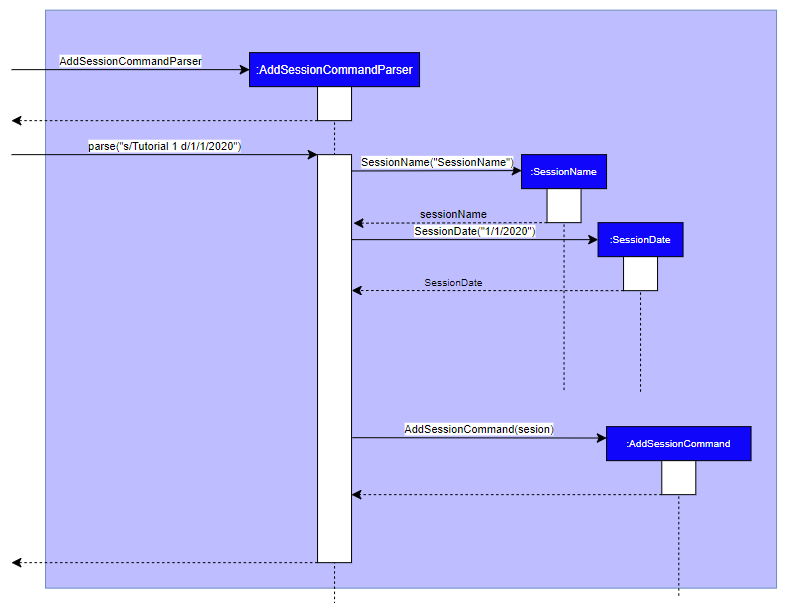
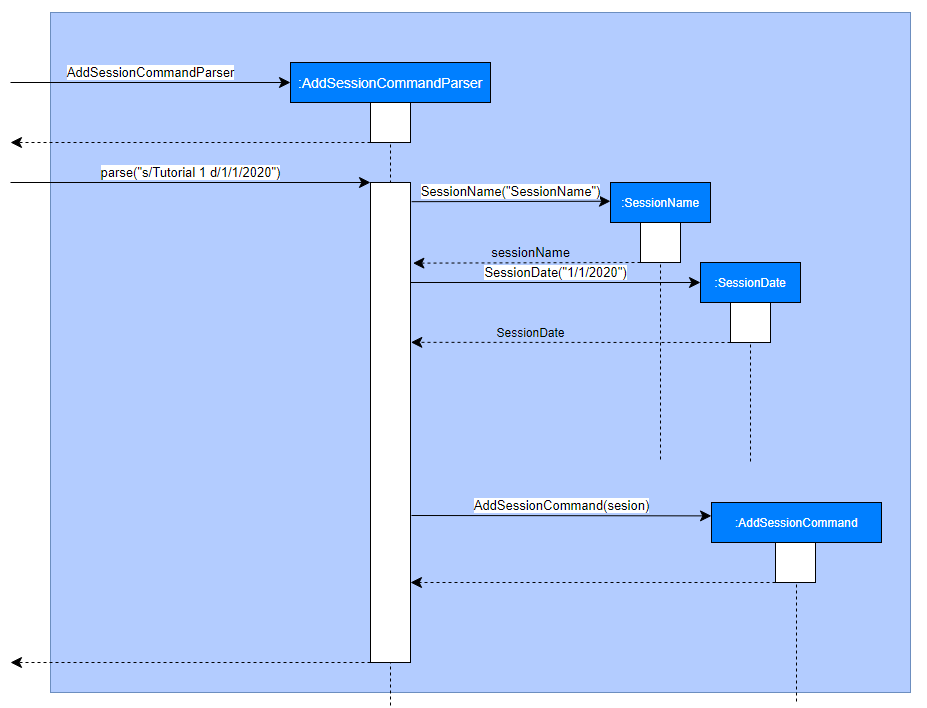
Change box and background color of sequence diagrams Amend DG

Changed region(s): [[0.0, 0.0, 1.0, 0.9851]]

diff --git a/docs/DeveloperGuide.md b/docs/DeveloperGuide.md
@@ -246,30 +246,30 @@ _{Explain here how the data archiving feature will be implemented}_
 
 ### <a name="adding_a_session"></a>Adding a session
 
-Adding a session to a class requires user input from the CLI, then the parser will parse the user input and 
-to obtain the name and the date of the session. The newly added session will also be filled with students' 
-default presence and participation.
+Adding a session to a class requires user input from the CLI. Adding a session to a class requires user input from 
+the CLI. The parser will then parse the user input to obtain the name and the date of the session. The newly added 
+session will also be filled with students' default presence and participation.
 
 The below example given assumes that the user inputs `addses s/Tutorial 1 d/1/1/2020`, which 'Tutorial 1' and
 '1/1/2020' are the name and the date of the session to be added, and `addses` command has already been parsed.
 
 Step 1: Parse input and create session
 
-A `AddSessionCommandParser` is created by `LogicManager` and calls the parse method with the given
+An `AddSessionCommandParser` is created by `LogicManager` and calls `AddSessionCommandParser#parse()` with the given
 user input. Input is parsed according to the prefix `s/` and `d/` to identify the parts of the 
-user input and split it into String slices. If both the name and date are present in the input, 
-those Strings will be used to create a `SessionName` and a `SessionDate` object, which will be used to 
+user input and split it into `String` slices. If both the name and date are present in the input, 
+those `String` will be used to create a `SessionName` and a `SessionDate` object, which will be used to 
 create and initialize a `Session` object. The `Session` object created will be the one being added to 
 the current session list later.
 
-The parse function returns a `AddSessionCommand` object that contains the session object
+`AddSessionCommandParser#parse()` returns a `AddSessionCommand` object that contains the session object
  back to the `LogicManager`.
 
 ![AddSessionSequenceDiagram1](images/AddSessionSequenceDiagram1.png)
 
 Step 2: Add session to the model/session list
 
-`LogicManager` calls execute method to proceed on to adding the session to the model.
+`LogicManager` calls `AddSessionCommand#execute()` to proceed on to adding the session to the model.
 The `AddSessionCommand` will first check if the same session is already in the session list, if the 
 session exists in the current session list, then the session will not be added to the session list.
 
